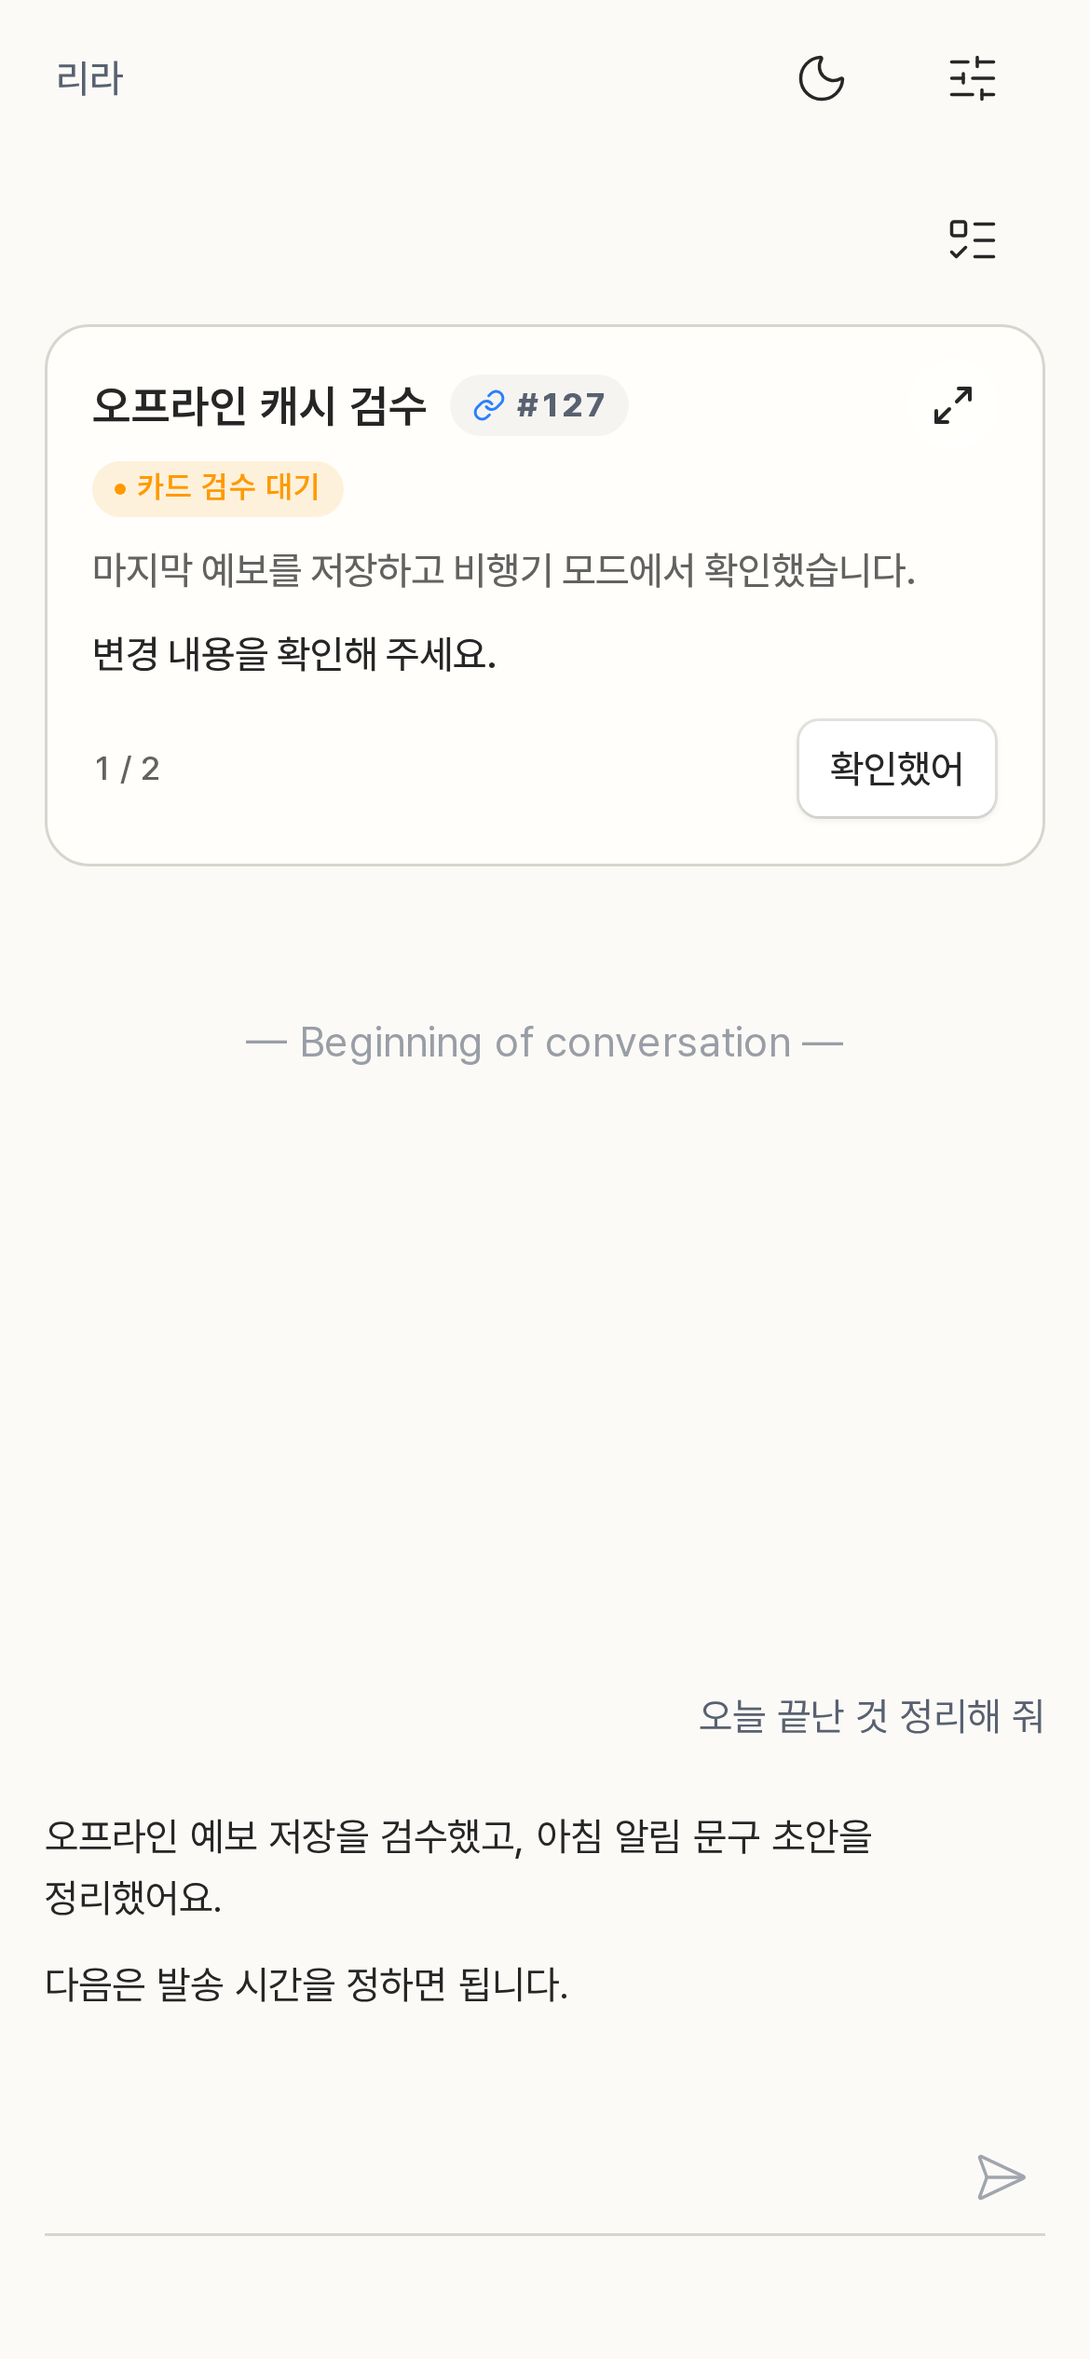
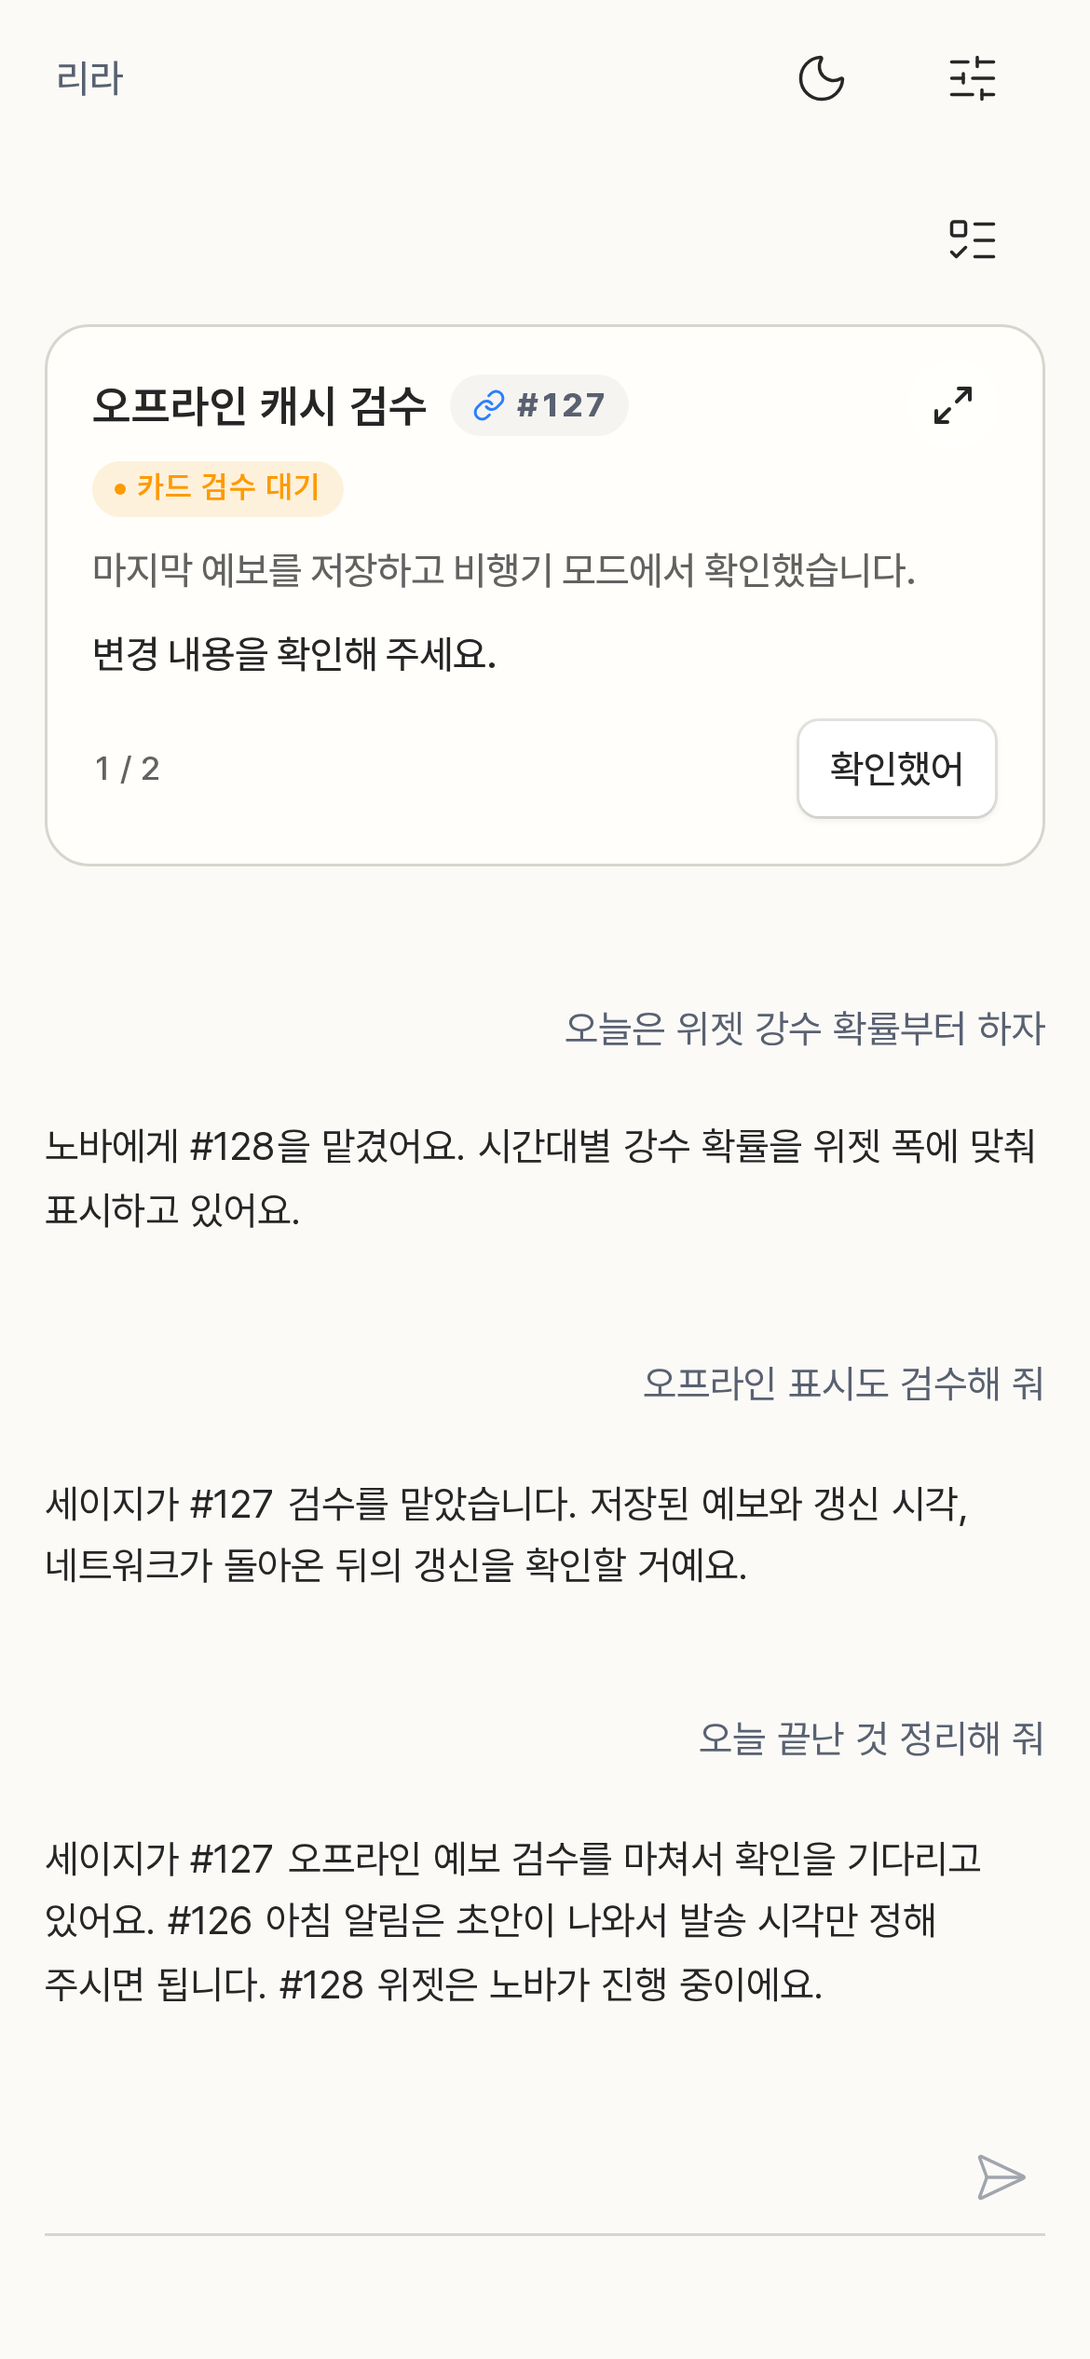
docs: enrich demo conversations and align card states

diff --git a/unified-dashboard/e2e/readme-demo/demo-fixtures.ts b/unified-dashboard/e2e/readme-demo/demo-fixtures.ts
@@ -57,11 +57,11 @@ function card({
     id, number, folderId, title, request, brief: request, attachments: [], status,
     blockedKind, blockedDetail, positionKey: `A${String(130 - number).padStart(3, "0")}`,
     queuePositionKey: status === "queued" ? `Q${String(130 - number).padStart(3, "0")}` : null,
-    assigneeKind: status === "review" || status === "running" ? "session" : null,
-    assigneeAgentId: status === "running" ? "nova" : status === "review" ? "sage" : null,
-    assigneeUserId: null, assigneeSessionId: status === "review" ? sessionIds.review : status === "running" ? sessionIds.running : null,
-    nodeId: status === "running" ? "build-linux" : status === "review" ? "studio-mac" : null,
-    modelPreset: status === "running" ? "codex-6-luna" : status === "review" ? "codex-6.1-sol" : null,
+    assigneeKind: ["review", "running", "blocked"].includes(status) ? "session" : null,
+    assigneeAgentId: status === "running" ? "nova" : status === "review" ? "sage" : status === "blocked" ? "lyra" : null,
+    assigneeUserId: null, assigneeSessionId: status === "review" ? sessionIds.review : status === "running" ? sessionIds.running : status === "blocked" ? sessionIds.writing : null,
+    nodeId: status === "running" ? "build-linux" : status === "review" || status === "blocked" ? "studio-mac" : null,
+    modelPreset: status === "running" || status === "blocked" ? "codex-6-luna" : status === "review" ? "codex-6.1-sol" : null,
     version: 1, archived: false, createdAt, updatedAt,
     ...(status === "done" ? { completedAt: updatedAt } : {}),
     items, now,
@@ -86,6 +86,7 @@ const cards: CardRow[] = [
     request: "아침 예보를 짧고 부드러운 문장으로 알려 주세요.", blockedKind: "question",
     blockedDetail: "발송 시간을 정하면 초안을 마무리할 수 있습니다.",
     items: [checkItem(1, "현재 알림 문구 모으기", "done", "기존 알림 문구 세 가지를 정리했습니다.")],
+    now: { text: "알림 문구 초안 두 가지를 정리했어요", turn: "user", ask: "아침 알림을 7시와 7시 30분 중 언제 보낼까요?", updatedAt, sessionId: sessionIds.writing },
   }),
   card({
     id: cardIds.queued, number: 125, title: "다크 모드 대비 점검", status: "queued",
@@ -113,11 +114,11 @@ const sessions: SessionSummary[] = [
     lastMessage: { type: "assistant_message", preview: "위젯 폭에 맞춰 두 시간대씩 묶어 표시했습니다.", timestamp: updatedAt },
   },
   {
-    agentSessionId: sessionIds.review, status: "completed", eventCount: 5, createdAt, updatedAt, completedAt: updatedAt,
+    agentSessionId: sessionIds.review, status: "completed", eventCount: 10, createdAt, updatedAt, completedAt: updatedAt,
     displayName: "🔍 오프라인 캐시 검수", folderId, nodeId: "studio-mac", agentId: "sage", agentName: "세이지",
     sessionType: "llm", llmProvider: "openai", llmModel: "Codex", backend: "codex",
     modelPreset: "codex-6.1-sol", prompt: "오프라인 예보 복구 흐름을 확인해 주세요.",
-    reviewRequired: true, reviewState: "needs_review", lastEventId: 5, lastReadEventId: 0,
+    reviewRequired: true, reviewState: "needs_review", lastEventId: 10, lastReadEventId: 0,
     lastMessage: { type: "assistant_message", preview: "저장된 예보와 갱신 시각을 확인했습니다.", timestamp: updatedAt },
   },
   {
@@ -156,14 +157,16 @@ const persistentSession: PersistentSession = {
   persistent_report: persistentReports,
 };
 
+const advisorSummary = "세이지가 #127 오프라인 예보 검수를 마쳐서 확인을 기다리고 있어요. #126 아침 알림은 초안이 나와서 발송 시각만 정해 주시면 됩니다. #128 위젯은 노바가 진행 중이에요.";
+
 const persistentSessionSummary: SessionSummary = {
-  agentSessionId: sessionIds.persistent, status: "completed", eventCount: 2, createdAt, updatedAt, completedAt: updatedAt,
+  agentSessionId: sessionIds.persistent, status: "completed", eventCount: 6, createdAt, updatedAt, completedAt: updatedAt,
   displayName: "비서", folderId, nodeId: "studio-mac", agentId: "lyra", agentName: "리라",
   sessionType: "llm", llmProvider: "openai", llmModel: "Codex", backend: "codex",
   modelPreset: "codex-6-luna", reasoningEffort: "max", prompt: "오늘 작업을 간결하게 정리합니다.",
-  reviewRequired: false, reviewState: "not_required", lastEventId: 2, lastReadEventId: 0, cardId: null,
+  reviewRequired: false, reviewState: "not_required", lastEventId: 6, lastReadEventId: 0, cardId: null,
   persistentReport: persistentReports,
-  lastMessage: { type: "assistant_message", preview: "오프라인 예보를 검수했고, 알림 문구 초안을 정리했어요.", timestamp: updatedAt },
+  lastMessage: { type: "assistant_message", preview: advisorSummary, timestamp: updatedAt },
 };
 
 const sessionSummaries: SessionSummary[] = [...sessions, persistentSessionSummary];
@@ -178,12 +181,24 @@ const timelineBySession: Record<string, Array<Record<string, unknown>>> = {
     { id: 6, parent_event_id: "1", event_type: "assistant_message", payload: { content: "위젯 폭에 맞춰 두 시간대씩 묶어 표시했습니다.\n\n```ts\nconst slots = forecast.slice(0, 6);\n```", timestamp: 6, tool_use_id: "assistant-widget-final", _final_for_live_stream: true }, created_at: updatedAt },
   ],
   [sessionIds.persistent]: [
-    { id: 1, parent_event_id: null, event_type: "user_message", payload: { text: "오늘 끝난 것 정리해 줘", timestamp: 1 }, created_at: createdAt },
-    { id: 2, parent_event_id: "1", event_type: "assistant_message", payload: { content: "오프라인 예보 저장을 검수했고, 아침 알림 문구 초안을 정리했어요.\n\n다음은 발송 시간을 정하면 됩니다.", timestamp: 2, tool_use_id: "assistant-advisor-final", _final_for_live_stream: true }, created_at: updatedAt },
+    { id: 1, parent_event_id: null, event_type: "user_message", payload: { text: "오늘은 위젯 강수 확률부터 하자", timestamp: 1 }, created_at: createdAt },
+    { id: 2, parent_event_id: "1", event_type: "assistant_message", payload: { content: "노바에게 #128을 맡겼어요. 시간대별 강수 확률을 위젯 폭에 맞춰 표시하고 있어요.", timestamp: 2, tool_use_id: "advisor-widget", _final_for_live_stream: true }, created_at: createdAt },
+    { id: 3, parent_event_id: null, event_type: "user_message", payload: { text: "오프라인 표시도 검수해 줘", timestamp: 3 }, created_at: createdAt },
+    { id: 4, parent_event_id: "3", event_type: "assistant_message", payload: { content: "세이지가 #127 검수를 맡았습니다. 저장된 예보와 갱신 시각, 네트워크가 돌아온 뒤의 갱신을 확인할 거예요.", timestamp: 4, tool_use_id: "advisor-review", _final_for_live_stream: true }, created_at: createdAt },
+    { id: 5, parent_event_id: null, event_type: "user_message", payload: { text: "오늘 끝난 것 정리해 줘", timestamp: 5 }, created_at: updatedAt },
+    { id: 6, parent_event_id: "5", event_type: "assistant_message", payload: { content: advisorSummary, timestamp: 6, tool_use_id: "assistant-advisor-final", _final_for_live_stream: true }, created_at: updatedAt },
   ],
   [sessionIds.review]: [
     { id: 1, parent_event_id: null, event_type: "user_message", payload: { text: "오프라인 예보 복구 흐름을 확인해 주세요.", timestamp: 1 }, created_at: createdAt },
-    { id: 2, parent_event_id: "1", event_type: "assistant_message", payload: { content: "마지막으로 저장된 예보가 표시되고, 새 응답을 받으면 갱신됩니다.", timestamp: 2, tool_use_id: "assistant-review-final", _final_for_live_stream: true }, created_at: updatedAt },
+    { id: 2, parent_event_id: "1", event_type: "assistant_message", payload: { content: "예보 저장소와 복구 흐름부터 읽고, 비행기 모드와 재연결 테스트를 확인하겠습니다.", timestamp: 2, tool_use_id: "review-plan", _final_for_live_stream: true }, created_at: createdAt },
+    { id: 3, parent_event_id: "1", event_type: "tool_start", payload: { tool_name: "Read", tool_input: { file_path: "src/forecast/ForecastCache.ts" }, tool_use_id: "review-cache", status: "completed", timestamp: 3 }, created_at: createdAt },
+    { id: 4, parent_event_id: "3", event_type: "tool_result", payload: { tool_name: "Read", result: "예보와 updatedAt을 함께 저장하고, 요청 실패 시 마지막 저장값을 반환합니다.", tool_use_id: "review-cache", status: "completed", is_error: false, timestamp: 4 }, created_at: createdAt },
+    { id: 5, parent_event_id: "1", event_type: "tool_start", payload: { tool_name: "Read", tool_input: { file_path: "src/forecast/ForecastCache.test.ts" }, tool_use_id: "review-tests", status: "completed", timestamp: 5 }, created_at: createdAt },
+    { id: 6, parent_event_id: "5", event_type: "tool_result", payload: { tool_name: "Read", result: "오프라인 복구, 갱신 시각 보존, 새 예보 수신 테스트를 확인했습니다.", tool_use_id: "review-tests", status: "completed", is_error: false, timestamp: 6 }, created_at: createdAt },
+    { id: 7, parent_event_id: "1", event_type: "tool_start", payload: { tool_name: "Bash", tool_input: { command: "pnpm test ForecastCache --runInBand" }, tool_use_id: "review-run", status: "completed", timestamp: 7 }, created_at: createdAt },
+    { id: 8, parent_event_id: "7", event_type: "tool_result", payload: { tool_name: "Bash", result: "3 passed: 오프라인 복구 · 갱신 시각 보존 · 새 예보 갱신", tool_use_id: "review-run", status: "completed", is_error: false, timestamp: 8 }, created_at: updatedAt },
+    { id: 9, parent_event_id: "1", event_type: "assistant_message", payload: { content: "세 가지 테스트가 통과했습니다.\n\n- 비행기 모드에서도 마지막 예보가 나타납니다.\n- 저장한 갱신 시각이 예보와 함께 유지됩니다.\n- 새 응답을 받으면 예보와 시각이 함께 바뀝니다.\n\n앱을 오프라인으로 열어 표시를 확인해 주세요. #127은 확인을 기다리고 있습니다.", timestamp: 9, tool_use_id: "review-findings", _final_for_live_stream: true }, created_at: updatedAt },
+    { id: 10, parent_event_id: "1", event_type: "assistant_message", payload: { content: "저장된 예보와 갱신 시각을 확인했습니다.", timestamp: 10, tool_use_id: "assistant-review-final", _final_for_live_stream: true }, created_at: updatedAt },
   ],
 };
 
@@ -206,7 +221,8 @@ function checkItemQuestionPayload() {
 }
 
 function timeline(sessionId: string) {
-  return { messages: timelineBySession[sessionId] ?? [], next_cursor: null };
+  // The timeline API is newest first; the history renderer reverses it before replay.
+  return { messages: [...(timelineBySession[sessionId] ?? [])].reverse(), next_cursor: null };
 }
 
 function sse(event: string, data: unknown) {
@@ -234,7 +250,7 @@ export async function installReadmeDemoRoutes(page: Page, diagnostics: DemoFixtu
     };
 
     if (path === "/api/health") return json({ healthy: true, ready: true, draining: false, build_id: "dev" });
-    if (path === "/api/auth/config") return json({ authEnabled: false, devModeEnabled: false });
+    if (path === "/api/auth/config") return json({ authEnabled: true, devModeEnabled: false });
     if (path === "/api/auth/status") return json({ authenticated: true, user: { email: "demo@example.com", name: "날씨 앱 개발자" } });
     if (path === "/api/user/preferences" || path === "/api/user/preferences/sync") return json({
       email: "demo@example.com", preferences: {}, hasBackground: false, backgroundUrl: null,

diff --git a/unified-dashboard/e2e/readme-demo/readme-demo.capture.ts b/unified-dashboard/e2e/readme-demo/readme-demo.capture.ts
@@ -19,8 +19,8 @@ async function prepare(page: Page, label: string, path: string) {
   runs.set(page, { label, diagnostics, pageErrors });
   if (label === "dashboard" || label === "card-detail") {
     await page.addInitScript(() => localStorage.setItem("ls.webglGlass", "0"));
-    await installDemoEventSource(page);
   }
+  await installDemoEventSource(page);
   await page.addInitScript(() => {
     Object.defineProperty(navigator, "serviceWorker", {
       configurable: true,
@@ -67,6 +67,15 @@ async function settleAndCapture(page: Page, path: string) {
   await page.screenshot({ path, type: "png", animations: "disabled" });
 }
 
+async function settleChatAtBottom(page: Page, container: string) {
+  const scroller = page.locator(`${container} [data-virtuoso-scroller="true"]:visible`);
+  await expect(scroller).toHaveCount(1);
+  await scroller.evaluate(element => element.scrollTo({ top: element.scrollHeight, behavior: "instant" }));
+  await page.waitForTimeout(700);
+  await expect.poll(() => scroller.evaluate(element => Math.abs(element.scrollHeight - element.clientHeight - element.scrollTop))).toBeLessThan(3);
+  console.log(`[readme-demo:chat-bottom] ${JSON.stringify(await scroller.evaluate(element => ({ scrollTop: element.scrollTop, scrollHeight: element.scrollHeight, clientHeight: element.clientHeight })))}`);
+}
+
 function report(label: string, diagnostics: DemoFixtureDiagnostics, pageErrors: string[]) {
   console.log(`[readme-demo:${label}] registered API: ${JSON.stringify([...new Set(diagnostics.registeredApi)])}`);
   console.log(`[readme-demo:${label}] unregistered API: ${JSON.stringify([...new Set(diagnostics.unregisteredApi)])}`);
@@ -100,6 +109,7 @@ async function capturePersistentSession(browser: Browser) {
     if (!layout.mobile || layout.scrollWidth > layout.width || !layout.hasChat) {
       console.log(`[readme-demo:mobile] 캡처 생략: ${JSON.stringify(layout)}`);
     } else {
+      await settleChatAtBottom(page, ".persistent-session-main");
       await expectSettled(page);
       await mkdir(screenshots, { recursive: true });
       await settleAndCapture(page, resolve(screenshots, "mobile.png"));
@@ -116,20 +126,23 @@ test("대시보드에 폴더 트리와 다섯 상태의 카드를 캡처한다",
   const { pageErrors } = await prepare(page, "dashboard", `/?folder=${readmeDemoIds.folderId}`);
   const cards = page.getByTestId("v3-planner-scroll").getByTestId("v3-folder-cards-section");
   await page.getByRole("button", { name: "📱 Aurora 날씨 앱 펼치기", exact: true }).click();
-  await cards.getByRole("button", { name: "일반 보기", exact: true }).click();
+  // Native minimum side-panel widths leave the largest available main panel.
+  for (const [testId, targetX] of [["v3-session-panel-resize-handle", 1420], ["v3-navigation-resize-handle", 20]] as const) {
+    const box = await page.getByTestId(testId).boundingBox();
+    if (!box) throw new Error(`resize handle missing: ${testId}`);
+    await page.mouse.move(box.x + box.width / 2, box.y + box.height / 2);
+    await page.mouse.down();
+    await page.mouse.move(targetX, box.y + box.height / 2, { steps: 6 });
+    await page.mouse.up();
+  }
   await cards.getByRole("switch", { name: "완료·취소 숨김" }).click();
   await expect(cards.locator(".v3-postit-card")).toHaveCount(5);
   await expect(cards).toContainText("위젯에 시간대별 강수 확률 넣기");
   await expect(cards).toContainText("오프라인에서 마지막 예보 보여 주기");
-  // 이 배치에는 카드 섹션 이동 버튼이 없어, 가운데 패널을 카드 섹션 머리까지 스크롤한다.
-  await page.getByTestId("v3-planner-scroll").evaluate((scroller) => {
-    const section = scroller.querySelector<HTMLElement>('[data-testid="v3-folder-cards-section"]');
-    if (!section) throw new Error("cards section missing");
-    scroller.scrollTop += section.getBoundingClientRect().top - scroller.getBoundingClientRect().top - 12;
-  });
-  await page.waitForTimeout(700);
-  const [firstCardId] = Object.values(readmeDemoIds.cardIds);
-  await expect(cards.locator(`[data-card-id="${firstCardId}"] .v3-postit-title`)).toBeInViewport();
+  console.log(`[readme-demo:dashboard-layout] ${JSON.stringify(await cards.evaluate(section => [...section.querySelectorAll<HTMLElement>(".v3-postit-card")].map(card => ({ id: card.dataset.cardId, ...card.getBoundingClientRect().toJSON() }))))}`);
+  await page.getByTestId("v3-planner-scroll").evaluate(element => { element.scrollTop = 0; });
+  await expect(page.getByRole("button", { name: "폴더 제목 편집", exact: true })).toBeInViewport({ ratio: 1 });
+  console.log("[readme-demo:dashboard-choice] 기본 compact 보드, 양쪽 패널을 제품 최소 폭으로 조절, 가운데 스크롤 0. 다섯 장 동시 노출 대신 폴더 머리 유지.");
   await expect(page.getByText("📱 Aurora 날씨 앱", { exact: true }).first()).toBeVisible();
   await expectSettled(page);
   await mkdir(screenshots, { recursive: true });
@@ -149,7 +162,11 @@ test("검수 카드 상세의 확인 항목과 결과를 캡처한다", async ({
   await expect(page.getByText("오프라인에서도 마지막 예보가 나타납니다.", { exact: true })).toBeVisible();
   await expect(page.getByText("새 응답을 받으면 저장값이 갱신됩니다.", { exact: true })).toBeVisible();
   await expect(page.getByTestId("card-now-panel").getByText("변경 내용을 검수해 주세요", { exact: true })).toBeVisible();
-  await expect(page.getByTestId("v3-card-session-chat")).toContainText("마지막으로 저장된 예보가 표시되고, 새 응답을 받으면 갱신됩니다.");
+  const chat = page.getByTestId("v3-card-session-chat");
+  await expect(chat).toContainText("저장된 예보와 갱신 시각을 확인했습니다.");
+  await chat.locator('[data-slot="tool-call-group-toggle"]').click();
+  await expect(chat.locator('[data-slot="tool-call-group-items"]')).toBeVisible();
+  await settleChatAtBottom(page, '[data-testid="v3-card-session-chat"]');
   await expectSettled(page);
   await mkdir(screenshots, { recursive: true });
   await settleAndCapture(page, resolve(screenshots, "card-detail.png"));
@@ -163,6 +180,7 @@ test("영구 세션의 보고 판과 대화, 모바일 배치를 캡처한다", 
   await expect(page.locator(".pas-report")).toBeVisible({ timeout: 10_000 });
   await page.getByRole("button", { name: "주간 사용량" }).click();
   await expect(page.getByTestId("persistent-session-weekly-usage")).toBeVisible();
+  await settleChatAtBottom(page, ".persistent-session-main");
   await expectSettled(page);
   await mkdir(screenshots, { recursive: true });
   await settleAndCapture(page, resolve(screenshots, "persistent-session.png"));
